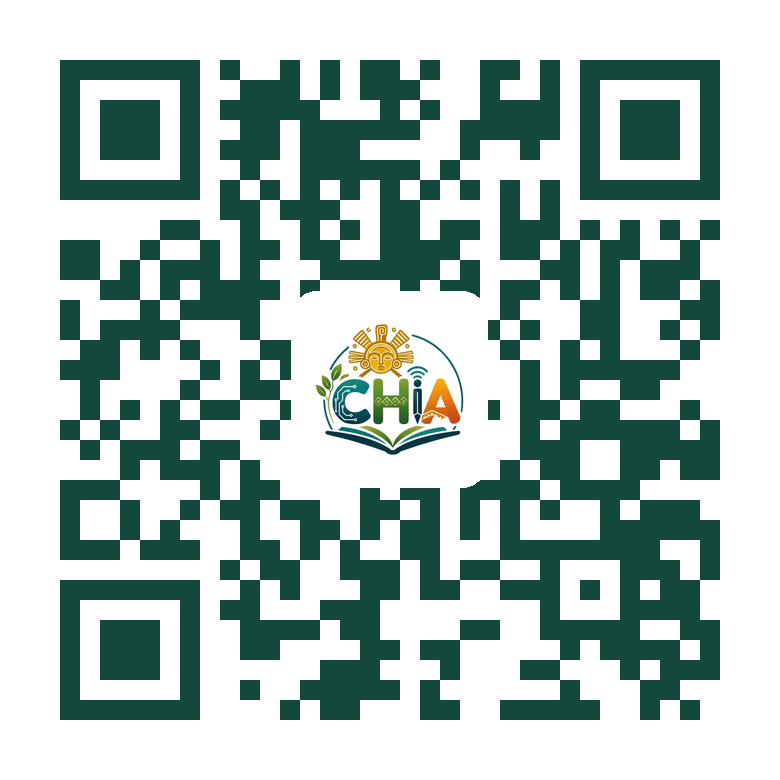
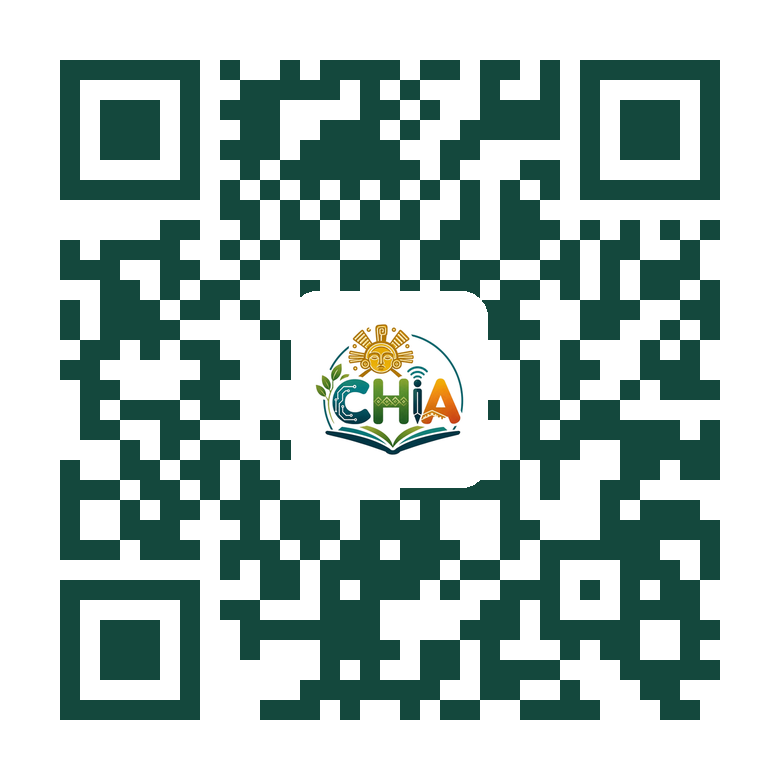
Arreglo de QR y ruta

diff --git a/src/data/sitio.ts b/src/data/sitio.ts
@@ -6,7 +6,7 @@ export const sitio = {
   lema: "Educación que conecta",
   correo: "chiatoolkit@gmail.com",
   // URL pública del sitio (la usa el código QR del sitio)
-  url: "https://bylugos.github.io/RutaTic/",
+  url: "https://bylugos.github.io/CHIA/",
   // Carpeta pública de Google Drive con todos los videos
   // (debe estar compartida como "Cualquier persona con el enlace").
   carpetaVideosDrive:

diff --git a/next.config.ts b/next.config.ts
@@ -5,7 +5,7 @@ import type { NextConfig } from "next";
 // - basePath: todas las rutas cuelgan de /RutaTic (también en local:
 //   http://localhost:3000/RutaTic)
 // Si algún día cambias de repositorio o de dominio, solo cambia BASE_PATH.
-const BASE_PATH = "/RutaTic";
+const BASE_PATH = "/CHIA";
 
 const nextConfig: NextConfig = {
   reactCompiler: true,
